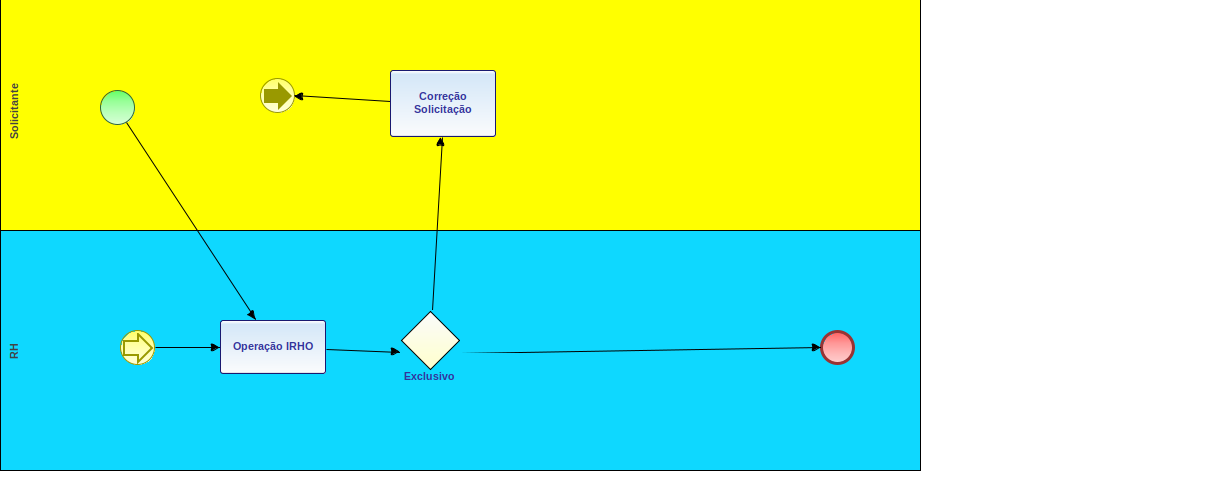
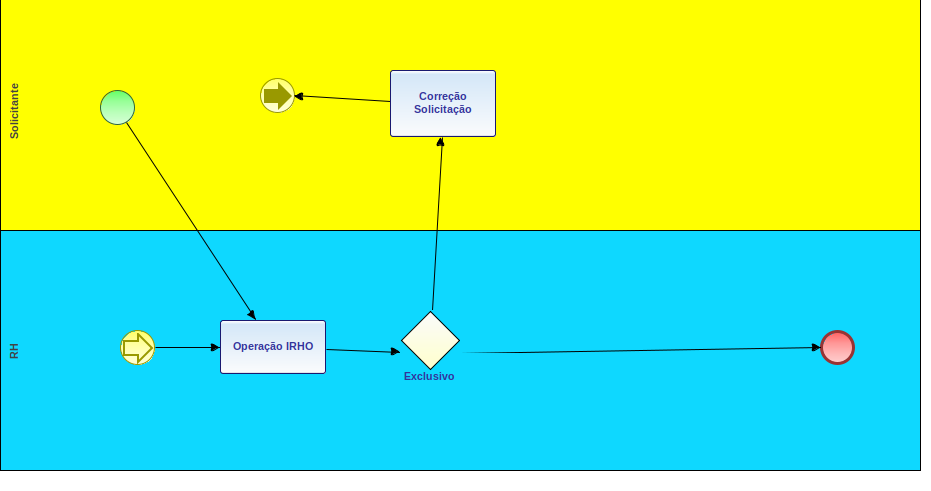
alterações gerais

diff --git a/forms/movimentacao_jam/movimentacao_jam.html b/forms/movimentacao_jam/movimentacao_jam.html
@@ -124,7 +124,6 @@
         <input type="hidden" id="CODRECEBIMENTO" name="CODRECEBIMENTO" />
         <input type="hidden" id="CodFilialDestino" name="CodFilialDestino" />
         
-        <!-- VARIÁVEIS OCULTAS -->
         <input type="text" id="cpRespGestor2" name="cpRespGestor2" style="display:none;" />
         <input type="text" id="cpDecisaoRH" name="cpDecisaoRH" style="display:none;" />
         <input type="text" id="cpParecercol2" name="cpParecercol2" style="display:none;" />
@@ -291,7 +290,6 @@
                         </div>
                     </div>
                     
-                    <!-- ABA: DEPARTAMENTO / OBRA -->
                     <div class="NovaSecao" style="display: none;">
                         <hr style="border-top: 1px dashed #d1d8e0; margin: 30px 0 20px 0;">
                         <div style="display: flex; justify-content: space-between; align-items: center; margin-bottom: 15px;">
@@ -354,7 +352,6 @@
                         </div>
                     </div>
                     
-                    <!-- ABA: FUNÇÃO -->
                     <div class="NovaFuncao" style="display: none;">
                         <hr style="border-top: 1px dashed #d1d8e0; margin: 30px 0 20px 0;">
                         <div style="display: flex; justify-content: space-between; align-items: center; margin-bottom: 15px;">
@@ -431,7 +428,6 @@
                         </div>
                     </div>
                     
-                    <!-- ABA: HORÁRIO -->
                     <div class="NovoHorario" style="display: none;">
                         <hr style="border-top: 1px dashed #d1d8e0; margin: 30px 0 20px 0;">
                         <div style="display: flex; justify-content: space-between; align-items: center; margin-bottom: 15px;">
@@ -521,7 +517,6 @@
                         </div>
                     </div>
                     
-                    <!-- ABA: SALÁRIO -->
                     <div class="NovoSalario" style="display: none;">
                         <hr style="border-top: 1px dashed #d1d8e0; margin: 30px 0 20px 0;">
                         <div style="display: flex; justify-content: space-between; align-items: center; margin-bottom: 15px;">
@@ -582,10 +577,8 @@
                 </div>
             </div>
 
-            <!-- TIMELINE LIMPA: Aqui os painéis preenchidos serão injetados -->
             <div id="historico-timeline"></div>
 
-            <!-- TABELA ORIGINAL OCULTA: Serve apenas para gravar os dados Pai x Filho -->
             <div class="tabelas-ocultas">
                 <table class="table" tablename="tbInteracoes" id="tbInteracoes" noaddbutton="true" nodeletebutton="true" style="border:none; margin:0; padding:0; width:100%;">
                     <thead><tr class="hide"><th></th></tr></thead>
@@ -595,7 +588,6 @@
                                  
                                 <input type="text" name="tipoInteracao" id="tipoInteracao" style="display:none;" />
                                  
-                                <!-- DIV 1: PAINEL SOLICITANTE INICIAL -->
                                 <div class="panel panel-default painel-obs-dinamico painel-solicitante-dinamico" style="margin-bottom: 30px;">
                                     <div class="panel-heading">
                                         <h3 class="panel-title">
@@ -626,7 +618,6 @@
                                     </div>
                                 </div>
                                  
-                                <!-- DIV 2: PAINEL BPO (OPERAÇÃO IRHO) -->
                                 <div class="panel panel-info painel-bpo-dinamico" style="margin-bottom: 30px;">
                                     <div class="panel-heading">
                                         <h3 class="panel-title">
@@ -649,7 +640,6 @@
                                                 </select>
                                             </div>
                                         </div>
-                                        <!-- Nova Div englobando o Parecer para Ocultar/Mostrar -->
                                         <div class="row linha-parecer-bpo" style="display: none;">
                                             <div class="col-md-12 form-group">
                                                 <label>Parecer do BPO</label>
@@ -659,7 +649,6 @@
                                     </div>
                                 </div>
                                  
-                                <!-- DIV 3: PAINEL CORREÇÃO -->
                                 <div class="panel panel-danger painel-correcao-dinamico" style="margin-bottom: 30px;">
                                     <div class="panel-heading" style="background-color: #d9534f !important; color: white; border: none;">
                                         <h3 class="panel-title">
@@ -694,10 +683,7 @@
                         </tr>
                     </tbody>
                 </table>
-            </div> <!-- Fim Tabela Oculta -->
-            
-            <!-- AÇÃO SOLICITANTE FINAL -->
-            <div class="panel panel-primary" id="divReabertura" style="display: none;">
+            </div> <div class="panel panel-primary" id="divReabertura" style="display: none;">
                 <div class="panel-heading">
                     <h3 class="panel-title"><i class="fluigicon fluigicon-form fluigicon-sm"></i> Ação Solicitante</h3>
                 </div>
@@ -728,6 +714,20 @@
 <script type="text/javascript">
     $(document).ready(function() {
         
+        // =========================================================================
+        // CORREÇÃO DE CORS NO UPLOAD: Intercepta e reescreve a URL do servidor
+        // =========================================================================
+        if (parent && parent.$) {
+            parent.$.ajaxPrefilter(function(options, originalOptions, jqXHR) {
+                // Verifica se a requisição está indo para a rota nativa de upload do Fluig
+                if (options.url && options.url.indexOf("/ecm/upload") !== -1) {
+                    // Remove qualquer IP ou Domínio fixo da URL e força usar o domínio atual do navegador
+                    options.url = options.url.replace(/^https?:\/\/[^\/]+/, window.location.origin);
+                }
+            });
+        }
+        // =========================================================================
+
         setTimeout(function() {
             if(window["dptoObraColab"]) window["dptoObraColab"].disable(true);
             if(window["nomeColaborador"]) window["nomeColaborador"].disable(true);
@@ -1128,19 +1128,40 @@
     }
 
     function setSelectedZoomItem(selectedItem) {
+        
+        // 1. QUANDO SELECIONAR A EMPRESA-FILIAL
         if (selectedItem.inputId == "empresaColab") {
             window["dptoObraColab"].disable(false);
             if(window["CodNovaSecao"]) window["CodNovaSecao"].disable(false);
-            
+
             var filter = "CODCOLIGADA," + selectedItem.COLIGADA;
             if (selectedItem.CODFILIAL) { filter += ",CODFILIAL," + selectedItem.CODFILIAL; }
+            
             reloadZoomFilterValues("dptoObraColab", filter);
             reloadZoomFilterValues("CodNovaSecao", filter);
+
+            // Guarda a Coligada e Filial em variáveis globais para a próxima etapa
+            window.ColigadaSelecionada = selectedItem.COLIGADA;
+            window.FilialSelecionada = selectedItem.CODFILIAL || "";
         }
 
+        // 2. QUANDO SELECIONAR O DPTO/OBRA
         if (selectedItem.inputId == "dptoObraColab") {
             window["nomeColaborador"].disable(false);
-            reloadZoomFilterValues("nomeColaborador", "CODSECAO," + selectedItem.CODIGO);
+            
+            // Concatena Seção, Coligada e Filial no filtro do Colaborador
+            var filterColab = "CODSECAO," + selectedItem.CODIGO;
+            
+            // Resgata a coligada/filial das variáveis globais
+            var codCol = selectedItem.CODCOLIGADA || window.ColigadaSelecionada;
+            var codFil = selectedItem.CODFILIAL || window.FilialSelecionada;
+
+            if (codCol) { filterColab += ",CODCOLIGADA," + codCol; }
+            if (codFil) { filterColab += ",CODFILIAL," + codFil; }
+
+            // Recarrega o zoom de Colaboradores aplicando todos os filtros juntos
+            reloadZoomFilterValues("nomeColaborador", filterColab);
+
             $("#txtCodSecaoOri").val((selectedItem.CODIGO || "") + " - " + (selectedItem.DESCRICAO || ""));
             $("#txtSecOrig").val(selectedItem.DESCRICAO || "");
         }
@@ -1232,15 +1253,21 @@
     }
 
     function removedZoomItem(removedItem) {
+        
         if (removedItem.inputId == "empresaColab") {
             if(window["dptoObraColab"]) { window["dptoObraColab"].clear(); window["dptoObraColab"].disable(true); }
             if(window["CodNovaSecao"]) { window["CodNovaSecao"].clear(); window["CodNovaSecao"].disable(true); }
             if(window["nomeColaborador"]) { window["nomeColaborador"].clear(); window["nomeColaborador"].disable(true); }
+            
             $("#txtCodSecaoOri, #txtSecOrig, #txtCodMotivoSecao, #txtCodFuncao, #CargoCol, #cboFuncaoAtual, #CodHorAtual, #DescHoraAtual, #IndiceAtual, #CpNovoCodHorario, #Salario, #cpJornadaMensal, #NovoSalario, #cpNovaJornadaMensal, #txtCodMotivoSalario").val("");
             if(window["txtMotivoSecao"]) { window["txtMotivoSecao"].clear(); }
             if(window["CpNovoHorario"]) { window["CpNovoHorario"].clear(); }
             if(window["CpIndiceCodHorario"]) { window["CpIndiceCodHorario"].clear(); window["CpIndiceCodHorario"].disable(true); }
             if(window["txtMotivoSalario"]) { window["txtMotivoSalario"].clear(); }
+
+            // Limpa a memória das variáveis de filtro para evitar vazamento entre seleções
+            window.ColigadaSelecionada = "";
+            window.FilialSelecionada = "";
         }
 
         if (removedItem.inputId == "dptoObraColab") {
